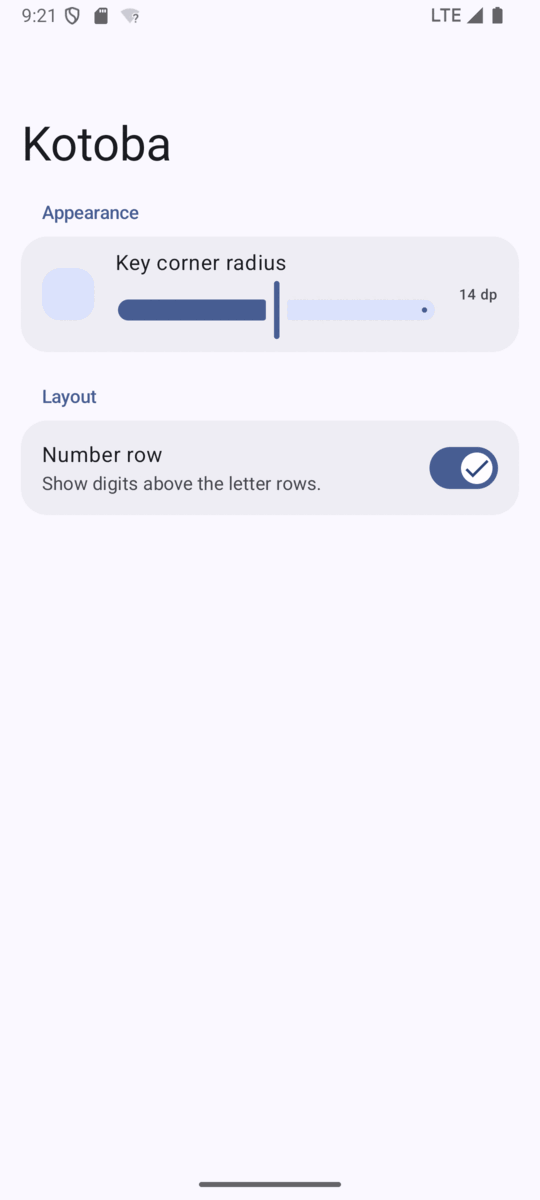
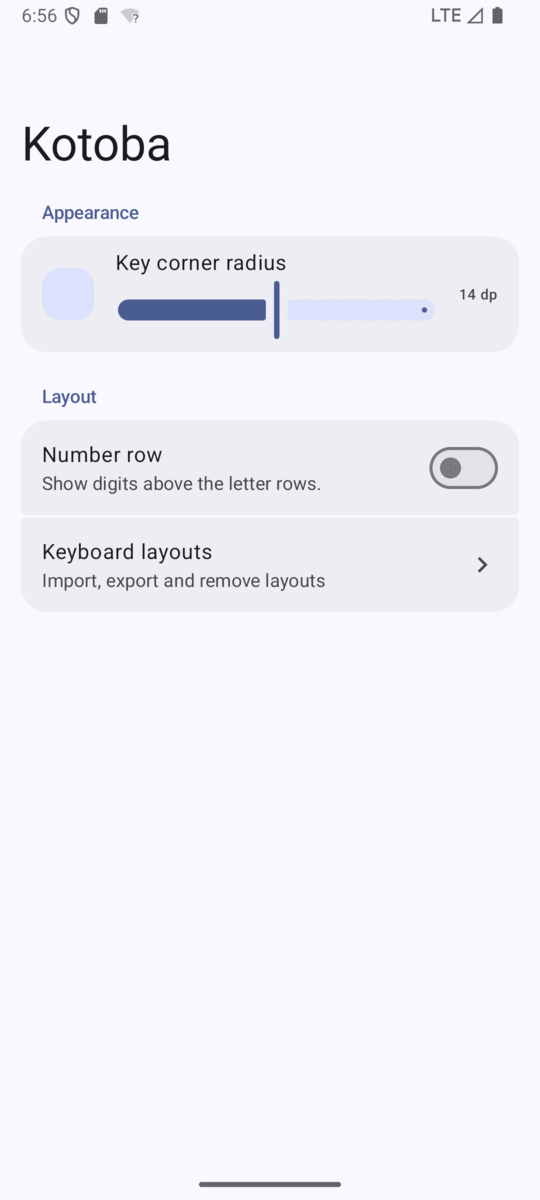
docs: add layouts screen and more keyboard screenshots

diff --git a/README.md b/README.md
@@ -21,6 +21,12 @@ On-screen keyboard (input method) for Android.
   <img src="screenshots/keyboard-emoji.png" width="190" alt="keyboard-emoji">
   <img src="screenshots/keyboard-tools.png" width="190" alt="keyboard-tools">
 </p>
+<p>
+  <img src="screenshots/layouts.png" width="190" alt="layouts">
+  <img src="screenshots/keyboard-ru.png" width="190" alt="keyboard-ru">
+  <img src="screenshots/keyboard-kk.png" width="190" alt="keyboard-kk">
+  <img src="screenshots/keyboard-de.png" width="190" alt="keyboard-de">
+</p>
 
 ## Dependencies
 
